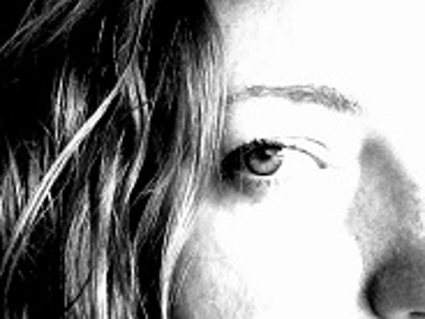
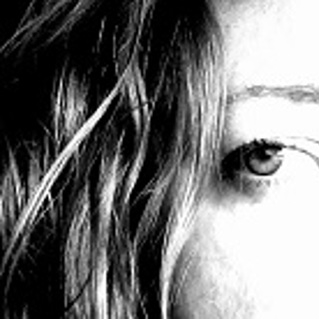
More styling added. Re-formatted authors page. Still need to add bios to authors page.

diff --git a/author.html b/author.html
@@ -26,64 +26,54 @@
         <img src='images/jalani.jpg'>
     </div> -->
 <div class="container-fluid">
-<div class="page-header authorHeaderStyle">
+<div class="page-header boxShadow authorHeaderStyle">
 <h1> 
-<i class="fas fa-bug"></i>
+<a href="index.html"><i id ="returnHome" class="fas fa-bug spin"></i></a>
 Authors
 </h1>
 </div>
 </div>
 
+<section id="authors">
 
-<!-- Dan -->
 <div class="container">
-    <!-- Picture alongside Name and Text -->
+    <div class="col-xs-12 col-sm-12 col-md-12 col-lg-12 col-xl-12">
+       
+    
     <div class="row">
  <!-- image container -->
-    <div class="col-xs-6 col-sm-6 col-md-4 col-lg-4 col-xl-4">
+ <!-- Dan --> 
+ <div class="d-flex align-items-center flex-column col-xs-12 col-sm-12 col-md-12 col-lg-4 col-xl-4">
+        <div class="imageContainer">  
         <img class="img-fluid" src="images/dan.jpg">
+        </div>
+        <a href="https://www.linkedin.com/in/daniel-mckinney-78576815a/"><h1>Daniel McKinney</h1></a>
+        
+     
     </div>
-    <!-- Text Container -->
-    <div class="col-xs-6 col-sm-6 col-md-8 col-lg-8 col-xl-8">
-        <h1>Daniel McKinney</h1>
-        <p>Lorem ipsum dolor sit amet, consectetur adipiscing elit. Donec feugiat, odio non laoreet pulvinar, massa nibh maximus nisi, sit amet laoreet libero elit bibendum velit. Ut lectus lacus, sagittis in efficitur vitae, iaculis sit amet sapien. Sed feugiat lacus nec mattis commodo. Morbi a lacus lectus. Donec pharetra vitae mauris vitae dapibus. Aliquam luctus facilisis nulla, at feugiat nulla tincidunt a. Integer sagittis tortor augue, ut tincidunt risus suscipit vel. Proin vel lorem iaculis, vulputate sapien eu, sagittis mauris. Vestibulum felis sem, pellentesque eu nisi posuere, pellentesque vehicula felis. Praesent justo diam, bibendum et tempor et, sollicitudin ut lacus. Nulla convallis lacinia feugiat. Pellentesque id neque est.</p>
-    </div>
-    </div>
-</div>
+
 <br>
 <!-- Lisa -->
-<div class="container">
-    <!-- Picture alongside Name and Text -->
-    <div class="row">
-    <!-- image container -->
-    <div class="col-xs-6 col-sm-6 col-md-4 col-lg-4 col-xl-4">
+<div class="d-flex flex-column align-items-center col-xs-12 col-sm-12 col-md-12 col-lg-4 col-xl-4">
+        <div class="imageContainer">  
         <img class="img-fluid" src='images/eye.jpg'>
-    </div>
-    <!-- Text Container -->
-    <div class="col-xs-6 col-sm-6 col-md-8 col-lg-8 col-xl-8">
-        <h1>Lisa Dean</h1>
-        <p>Bumper-Car NAZI. Lorem ipsum dolor sit amet, consectetur adipiscing elit. Donec feugiat, odio non laoreet pulvinar, massa nibh maximus nisi, sit amet laoreet libero elit bibendum velit. Ut lectus lacus, sagittis in efficitur vitae, iaculis sit amet sapien. Sed feugiat lacus nec mattis commodo. Morbi a lacus lectus. Donec pharetra vitae mauris vitae dapibus. Aliquam luctus facilisis nulla, at feugiat nulla tincidunt a. Integer sagittis tortor augue, ut tincidunt risus suscipit vel. Proin vel lorem iaculis, vulputate sapien eu, sagittis mauris. Vestibulum felis sem, pellentesque eu nisi posuere, pellentesque vehicula felis. Praesent justo diam, bibendum et tempor et, sollicitudin ut lacus. Nulla convallis lacinia feugiat. Pellentesque id neque est.</p>
-    </div>
-    </div>
-</div>
+        </div>
+        <a href="https://www.linkedin.com/in/lisareneedean/"><h1>Lisa Dean</h1></a>
+
+    </div> 
 <br>
 <!-- Jalani -->
-<div class="container">
-    <!-- Picture alongside Name and Text -->
-    <div class="row">
- <!-- image container -->
-    <div class="col-xs-6 col-sm-6 col-md-4 col-lg-4 col-xl-4">
-        <img class="img-fluid" src='images/jalani.jpg'>
+<div class="d-flex flex-column align-items-center col-xs-12 col-sm-12 col-md-12 col-lg-4 col-xl-4">
+    <div class="imageContainer">  
+    <img class="img-fluid" src='images/jalani.jpg'>
     </div>
-
-    <!-- Text Container -->
-    <div class="col-xs-6 col-sm-6 col-md-8 col-lg-8 col-xl-8">
-        <h1>Jalani Paul</h1>
-        <p>Ayyyyy lmao. Lorem ipsum dolor sit amet, consectetur adipiscing elit. Donec feugiat, odio non laoreet pulvinar, massa nibh maximus nisi, sit amet laoreet libero elit bibendum velit. Ut lectus lacus, sagittis in efficitur vitae, iaculis sit amet sapien. Sed feugiat lacus nec mattis commodo. Morbi a lacus lectus. Donec pharetra vitae mauris vitae dapibus. Aliquam luctus facilisis nulla, at feugiat nulla tincidunt a. Integer sagittis tortor augue, ut tincidunt risus suscipit vel. Proin vel lorem iaculis, vulputate sapien eu, sagittis mauris. Vestibulum felis sem, pellentesque eu nisi posuere, pellentesque vehicula felis. Praesent justo diam, bibendum et tempor et, sollicitudin ut lacus. Nulla convallis lacinia feugiat. Pellentesque id neque est.</p>
-    </div>
+    <a href="https://www.linkedin.com/in/jalani-paul-995752143/"><h1>Jalani Paul</h1></a>
+   
     </div>
 </div>
+</div>
 
+</section>
 
 
 

diff --git a/index.html b/index.html
@@ -19,7 +19,7 @@
         <div class="fill col-lg-4 col-md-4 leftSideStyle">
        
        <div id="backgroundImage" class="blurred-image"></div>
-        <div id="contentOnTop" class="container d-inline-flex flex-column align-items-center">
+        <div id="contentOnTop" class="layer container d-inline-flex flex-column align-items-center">
         <div class="d-inline-flex flex-column align-items-center">
             <div class="d-inline-flex flex-column align-items-center">   
                 <br>
@@ -27,7 +27,7 @@
                 <br>
              
                 <div>
-                <i class="fas fa-bug"></i>
+                <i class="fas fa-bug spin"></i>
                 </div>
                 <h1>Mysophobia</h1>
             </div>    
@@ -35,19 +35,19 @@
             <div id="inputs" class="d-inline-flex flex-column align-items-center">
                 <div class="form-group">
                     <label for="usr">Zip Code:</label>
-                    <input type="text" class="form-control" id="usr" placeholder="Zip Code..." data-address-input>
+                    <input type="text" class="boxShadowSubmit form-control" id="usr" placeholder="Zip Code..." data-address-input>
                 </div>
                     <!-- insert "m" logo in between inputs -->
     
                 <div class="form-group">
                     <label for="pwd">Minimum Acceptable Score:</label>
                     <!-- add a dropdown menu -->
-                    <select type="text" placeholder ="Select..."class="form-control" id="pwd" data-health-score>      
+                    <select type="text" placeholder ="Select..."class="boxShadowSubmit form-control" id="pwd" data-health-score>      
                     </select>
             </div>  
               <br>
               <!-- Move this button to a better spot -->
-              <button type="submit" class ="boxShadow borderRadiusNormal btn btn-default btn-sm;" data-submit>Submit</button>
+              <button type="submit" class ="boxShadowSubmit borderRadiusNormal btn btn-default btn-sm;" data-submit>Submit</button>
             </div>
 
         
@@ -62,13 +62,13 @@
             
                 <p class="infoButtons" style="border-radius:30%">
                     <!-- link to a second page about us -->
-                    <a href = "author.html"> <button type="button" class ="borderRadiusNormal boxShadow btn btn-default btn-sm;" >About Us</button></a>
+                    <a href = "author.html"> <button type="button" class ="borderRadiusNormal boxShadowSubmit btn btn-default btn-sm;" >About Us</button></a>
 
                     
                     <i class="fas fa-bug"></i>
                     
 
-                    <a href = "https://github.com/Dmckinney821/groupProjectMay29"> <button type="button" class="borderRadiusNormal boxShadow btn btn-default btn-sm;">More Information</button></a>
+                    <a href = "https://github.com/Dmckinney821/groupProjectMay29"> <button type="button" class="borderRadiusNormal boxShadowSubmit btn btn-default btn-sm;">More Information</button></a>
                 </p>
         
         <!-- height should change when the Offenders Table is inserted dynamically -->
@@ -81,7 +81,7 @@
 <br>
 
     <div class="container-fluid">
-        <div class="col-md-12 col-lg-12">
+        <div data-offenders class="hideTable col-md-12 col-lg-12">
 
             <!-- get results to populate in this table -->
             <!-- make this table appear dynamically after input is recieved -->

diff --git a/stylesheets/index.css b/stylesheets/index.css
@@ -31,6 +31,9 @@ body button {
 .boxShadow {
     box-shadow: 0px 0px 5px rgb(113, 111, 111);
 }
+.boxShadowSubmit {
+    box-shadow: 0px 0px 5px rgb(231, 212, 164);;
+}
 
 borderRadiusNormal {
     border-radius: 4%;
@@ -62,12 +65,17 @@ borderRadiusNormal {
     /* color: rgb(231, 212, 164); */
     color: white;
     text-shadow: -1px -1px rgb(151,128,118);
+
+    padding:0;
+
+    width: 100%;
 }
 
 #inputs {
-    color: rgb(60,102,175);
+    color: rgb(231, 212, 164);
+    /* color: white; */
     /* text-shadow: -1px -1px rgb(231,212,164); */
-    text-shadow: -1px -1px white;
+    /* text-shadow: -1px -1px white; */
 }
 
 
@@ -83,7 +91,7 @@ borderRadiusNormal {
 }
 
 #backgroundImage {
-    background-image: url("../images/restaurant1.jpg");
+    background-image: url("../images/bar1.jpg");
     
     position: absolute;
     z-index: 100;
@@ -93,13 +101,16 @@ borderRadiusNormal {
     padding-left: 0px;
 
     background-repeat: no-repeat;
-    background-position: -1925px -1309px;
+    background-position: -400px -175px;
 
 }
-.transparentBox{
-    background: rgba(60, 102, 175, 0.3);
-
-    /* z-index: 200; */
+.layer{
+    background-color: rgba(11, 57, 138, 0.5);
+    position: absolute;
+    top: 0;
+    left: 15;
+    width: 100%;
+    height: 100%;
 }
 .blurred-image {
     -webkit-filter: blur(1px);
@@ -107,6 +118,7 @@ borderRadiusNormal {
     -o-filter: blur(1px);
     -ms-filter: blur(1px);
     filter: blur(1px);
+    
 }
 
 imageSize {
@@ -120,7 +132,8 @@ imageSize {
 /* Controls the size of the bug logo on the front */
 #contentOnTop .fa-bug {
     font-size: 41px;
-    color: white;
+    color: rgb(231, 212, 164);
+    padding:0;
 }
 .fa-bug {
     font-size: 41px;
@@ -128,7 +141,10 @@ imageSize {
 }
 
 
-/* Table Styling */
+/* Table Styling  */
+ .hideTable{
+    display:none;
+}
 
 .tableHeadStyle {
     /* background-color: rgb(242, 252, 255);
@@ -177,20 +193,34 @@ tbody th {
 
 #contentOnTop h1 {
     text-decoration: none;
+    color: white;
 }
 h1 {
     color: rgb(60,102,175);
-    font-size: 200%;
+    font-size: 165%;
     text-decoration: underline;
+    
+}
+#authors h1{
+    text-align: center;
 }
 
 .authorHeaderStyle h1 {
     line-height: 1.5;
     color: white;
-    font-size: 35px;
+    font-size: 30px;
     text-decoration: none;
 }
+
+
+.imageContainer {
+    width: 250px;
+    height: 250px;
+}
 .img-fluid {
+    object-fit: contain;
+    height:100%;
+    width: 100%;
     border-radius: 4%;
 }
 
@@ -208,14 +238,45 @@ button:hover {
     box-shadow: -1px 2px 4px rgb(82, 131, 216);
     /* box-shadow: -1px 2px 4px white; */
 }
-
+#returnHome:hover {
+    transform: scale(1.1);
+    box-shadow: 0px 0px 2px white;
+}
 
 tbody tr:hover {
     box-shadow: 0px 2px 4px rgb(184, 208, 235);
     color: rgb(168, 146, 89);
+
+    transform: scale(1.04);
 }
 
 button:hover {
     transform: scale(1.04);
     color: rgb(231, 212, 164);
+}
+
+#authors h1:hover{
+    transform: scale(1.02);
+    color: rgb(231, 212, 164);
+}
+
+/* Bug Animtaions */
+@-moz-keyframes spin {
+    to { -moz-transform: rotate(359deg); }
+}
+@-webkit-keyframes spin {
+    /* to { -webkit-transform: rotate(359deg); } */
+    0%, 40%   {-webkit-transform: rotate(0deg);}
+    60%, 100% {-webkit-transform: rotate(359deg);}
+}
+@keyframes spin {
+    /* to {transform:rotate(359deg);} */
+    0%, 20% { transform: rotate(0deg); }
+    50%, 100% { transform: rotate(359deg); }
+}
+
+.spin {
+    animation: spin 9s infinite ease-in;
+
+   
 }

diff --git a/scripts/index.js b/scripts/index.js
@@ -77,7 +77,7 @@ function drawMap(data) {
         lng: lngValue
       },
       zoom: 8
-      // ,styles: mapStyle
+      ,styles: mapStyle
     }
   );
   var sw = data.results[0].geometry.bounds.southwest;
